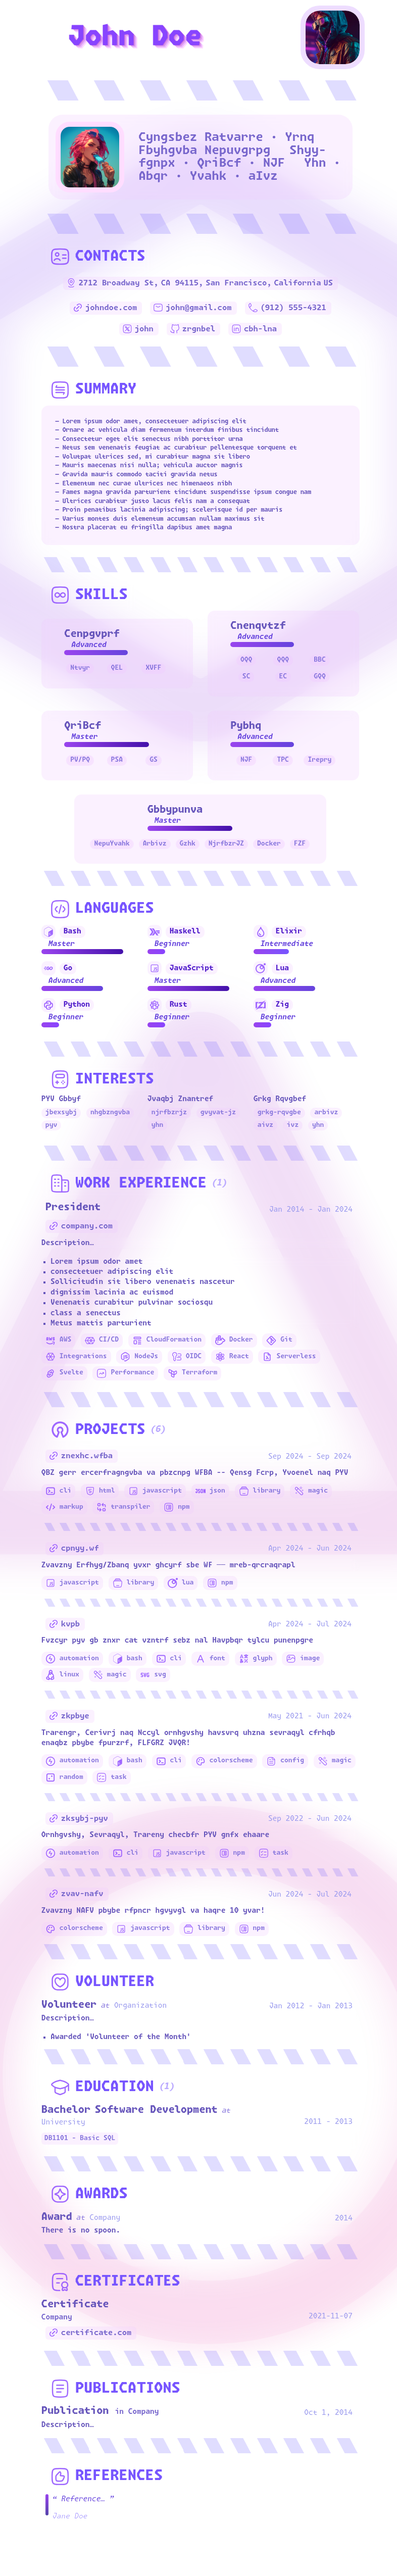
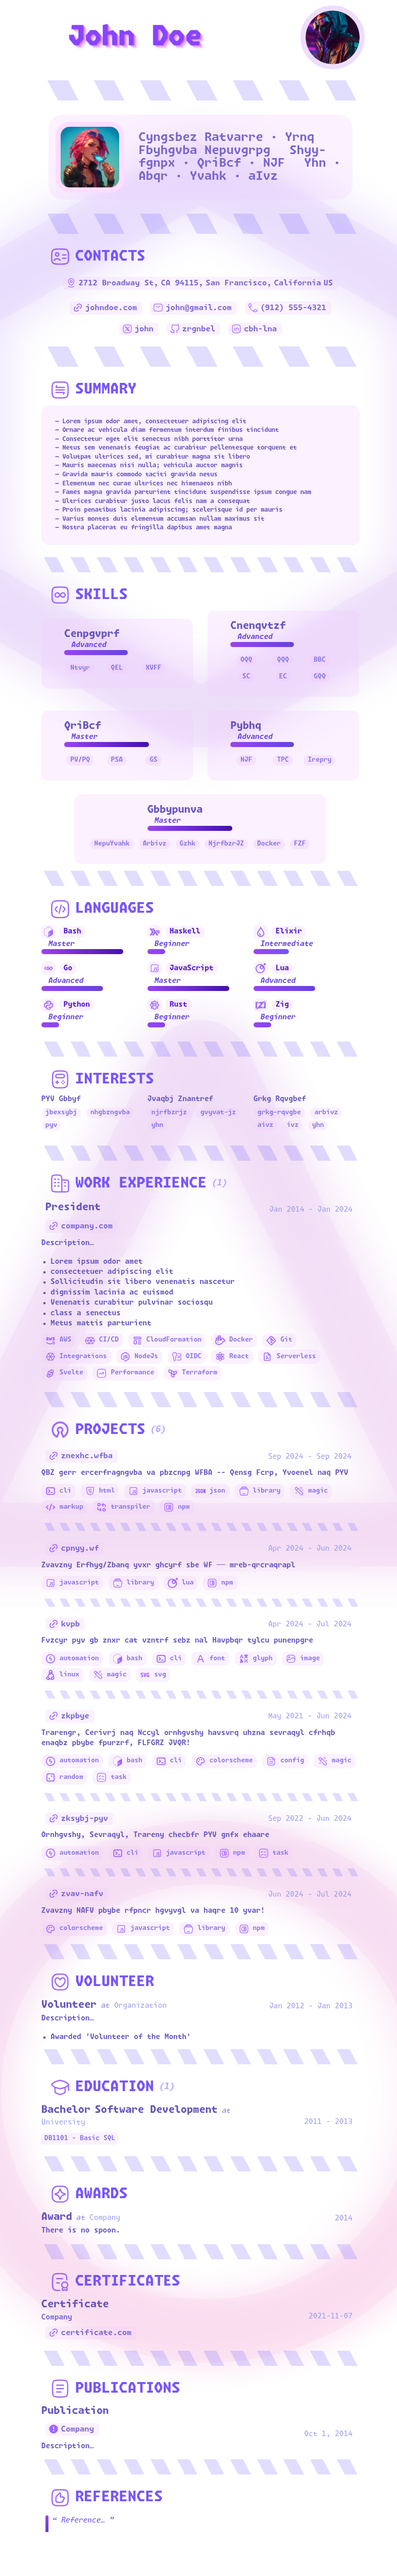
0910_1413

diff --git a/src/styles/legacy.css b/src/styles/legacy.css
@@ -252,7 +252,7 @@ strong {
 #header .image {
   width: 2em;
   outline: solid 10px var(--xbg);
-  border-radius: 2rem;
+  border-radius: 4rem;
   justify-self: end;
 }
 
